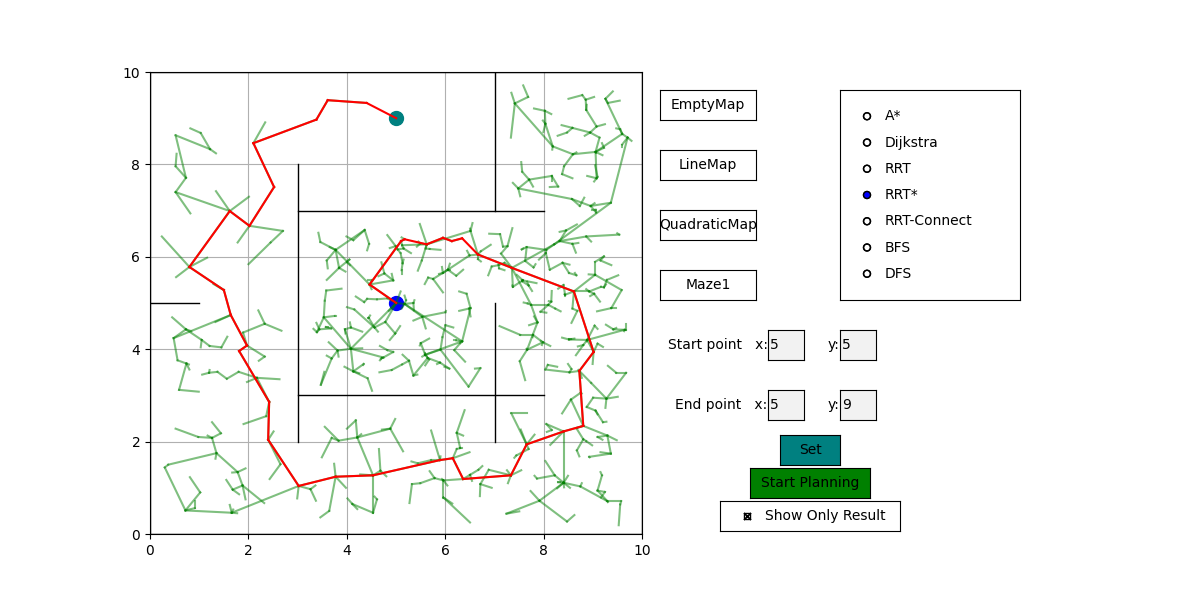
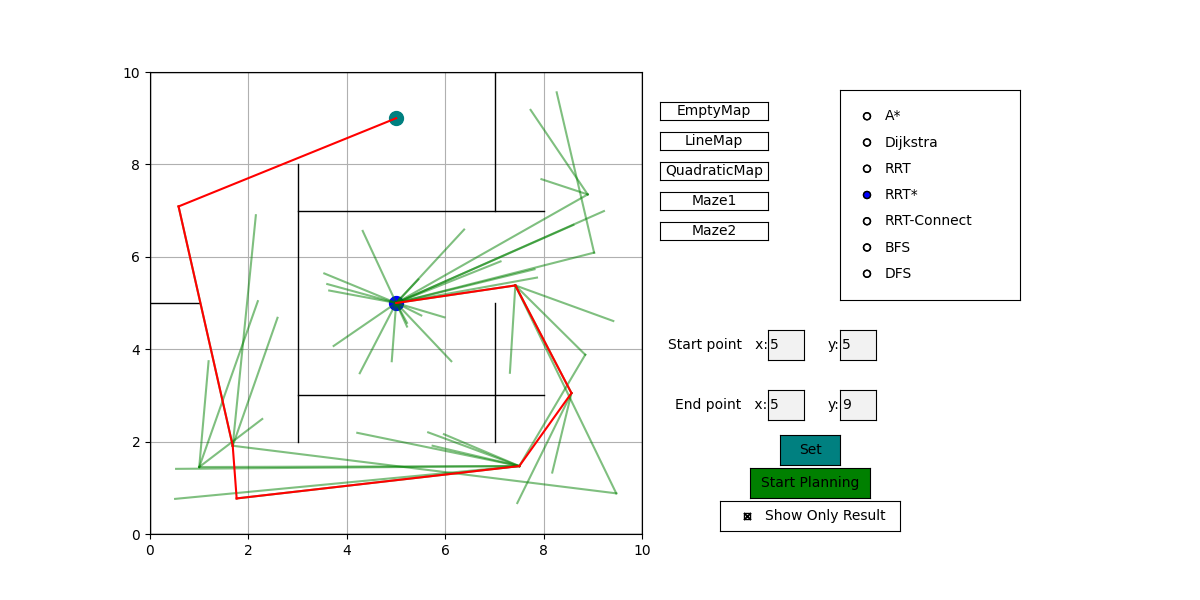
upgrade rrt_start

diff --git a/PathPlanning/RapidlyExploringRandomTree/rrt_star.py b/PathPlanning/RapidlyExploringRandomTree/rrt_star.py
@@ -3,6 +3,12 @@ import random
 import sys
 from math import sqrt
 
+
+
+
+
+
+
 def draw_map(ax, map_obj, start_point, end_point, nodes, path=None):
     ax.clear()
     x_range = map_obj.x_range
@@ -83,7 +89,7 @@ def check_segments_intersect(p1, q1, p2, q2):
     return False
 
 
-def rrt_star(ax, map_obj, start_point, end_point, only_result, max_points=10000, rewire_radius=5.0):
+def rrt_star(ax, map_obj, start_point, end_point, only_result, max_points=10000, rewire_radius=0.5):
     x_range = map_obj.x_range
     y_range = map_obj.y_range
     obstacles = map_obj.obstacles
@@ -106,56 +112,55 @@ def rrt_star(ax, map_obj, start_point, end_point, only_result, max_points=10000,
     while points_added < max_points:
         # 1. Draw a point
         target_point = (round(random.uniform(0, x_range), 2), round(random.uniform(0, y_range), 2))
-
-        if is_far_from_obstacles(target_point, obstacles):
-            # 2. Checking for each available node (parent).
-            nearest_node = None
-            min_cost = float('inf')
-            for node, parent_node, cost in nodes:
-                if not intersects_obstacle(node, target_point, obstacles_lines):
-                    # 2a. Calculating the cost from the beginning of the route to this point by this parent.
-                    new_cost = costs[node] + euclidean_distance(node, target_point)
-                    if new_cost < min_cost:
-                        nearest_node = node
-                        min_cost = new_cost
         
-        if nearest_node is not None:
-                # 2b. Selecting the shortest distance to the starting point and saving the point to that parent.
-                nodes.append((target_point, nearest_node, min_cost))
-                parent_nodes[target_point] = nearest_node
-                costs[target_point] = min_cost
+        if is_far_from_obstacles(target_point, obstacles):
+                    # 2. Checking for each available node (parent).
+                    nearest_node = None
+                    min_cost = float('inf')
+                    for node, parent_node, cost in nodes:
+                        if not intersects_obstacle(node, target_point, obstacles_lines):
+                            # 2a. Calculating the cost from the beginning of the route to this point by this parent.
+                            new_cost = costs[node] + euclidean_distance(node, target_point)
+                            if new_cost < min_cost:
+                                nearest_node = node
+                                min_cost = new_cost
 
-                # 3. Selecting the parent with the lowest cost.
-                for node, parent_node, cost in nodes:
-                    if node != target_point and euclidean_distance(node, target_point) <= rewire_radius:
-                        new_cost = costs[target_point] + euclidean_distance(node, target_point)
-                        if new_cost < costs[node] and not intersects_obstacle(node, target_point, obstacles_lines):
-                            parent_nodes[node] = target_point
-                            costs[node] = new_cost
+                    if nearest_node is None:
+                        continue
+                    # 2b. Selecting the shortest distance to the starting point and saving the point to that parent.
+                    nodes.append((target_point, nearest_node, min_cost))
+                    parent_nodes[target_point] = nearest_node
+                    costs[target_point] = min_cost
 
-                points_added += 1
-                if only_result is False:
-                    draw_map(ax, map_obj,start_point, end_point, nodes) # Draw added nodes
+                    # 3. Selecting the parent with the lowest cost.
+                    for node, parent_node, cost in nodes:
+                        if node != target_point and euclidean_distance(node, target_point) <= rewire_radius:
+                            new_cost = costs[target_point] + euclidean_distance(node, target_point)
+                            if new_cost < costs[node] and not intersects_obstacle(node, target_point, obstacles_lines):
+                                parent_nodes[node] = target_point
+                                costs[node] = new_cost
 
-                # 4: Checking whether a point can be connected to an endpoint
-                if euclidean_distance(target_point, end_point) <= 5.0 and not intersects_obstacle(end_point, target_point, obstacles_lines):
-                    
-                    nodes.append((end_point, target_point, min_cost + euclidean_distance(target_point, end_point)))
-                    parent_nodes[end_point] = target_point
-                    costs[end_point] = min_cost + euclidean_distance(target_point, end_point)
-
-                    # Create final path
-                    path = [end_point]
-                    current_node = target_point
-                    while current_node != start_point:
-                        path.append(current_node)
-                        current_node = parent_nodes[current_node]
-                    path.append(start_point)
-                    path.reverse()
-                    draw_map(map_obj, start_point, end_point, nodes, path)
-                    print("Path found at", points_added, "iteration.")
-                    print("Path:", path)
-                    return path
-
+                    points_added += 1
+                    if only_result is False:
+                        draw_map(ax, map_obj,start_point, end_point, nodes) # Uncomment to visualize every added point to the tree
+                    # 4: Checking whether a point can be connected to an endpoint
+                    if euclidean_distance(target_point, end_point) <= 5.0 and not intersects_obstacle(end_point, target_point, obstacles_lines):
+                        
+                        nodes.append((end_point, target_point, min_cost + euclidean_distance(target_point, end_point)))
+                        parent_nodes[end_point] = target_point
+                        costs[end_point] = min_cost + euclidean_distance(target_point, end_point)
+                        print(f"Path found at {points_added} iteration.")
+                        # Create final path
+                        path = [end_point]
+                        current_node = target_point
+                        while current_node != start_point:
+                            path.append(current_node)
+                            current_node = parent_nodes[current_node]
+                        path.append(start_point)
+                        path.reverse()
+                        draw_map(ax, map_obj,start_point, end_point, nodes, path)
+                        print("Path found at", points_added, "iteration.")
+                        print("Path:", path)
+                        return path
     print("Path not found.")
     return None

diff --git a/PathPlanning/SingleRun/rrt_star.py b/PathPlanning/SingleRun/rrt_star.py
@@ -37,9 +37,6 @@ def draw_map(map_obj, start_point, end_point, nodes, path=None):
         for next_node in path[1:]:
             plt.plot([current_node[0], next_node[0]], [current_node[1], next_node[1]], color='red')
             current_node = next_node
-
-
-        
     plt.xlim(0, x_range)
     plt.ylim(0, y_range)
     plt.grid(True)
@@ -92,8 +89,7 @@ def check_segments_intersect(p1, q1, p2, q2):
     return False
 
 
-
-def rrt_star(map_obj, start_point, end_point, max_points=1000, rewire_radius=15.0):
+def rrt_star(map_obj, start_point, end_point, max_points=1000, rewire_radius=5.0):
     x_range = map_obj.x_range
     y_range = map_obj.y_range
     obstacles = map_obj.obstacles
@@ -129,41 +125,44 @@ def rrt_star(map_obj, start_point, end_point, max_points=1000, rewire_radius=15.
                         nearest_node = node
                         min_cost = new_cost
 
-            if nearest_node is not None:
-                # 2b. Selecting the shortest distance to the starting point and saving the point to that parent.
-                nodes.append((target_point, nearest_node, min_cost))
-                parent_nodes[target_point] = nearest_node
-                costs[target_point] = min_cost
+            if nearest_node is None:
+                continue
+            # 2b. Selecting the shortest distance to the starting point and saving the point to that parent.
+            nodes.append((target_point, nearest_node, min_cost))
+            parent_nodes[target_point] = nearest_node
+            costs[target_point] = min_cost
 
-                # 3. Selecting the parent with the lowest cost.
-                for node, parent_node, cost in nodes:
-                    if node != target_point and euclidean_distance(node, target_point) <= rewire_radius:
-                        new_cost = costs[target_point] + euclidean_distance(node, target_point)
-                        if new_cost < costs[node] and not intersects_obstacle(node, target_point, obstacles_lines):
-                            parent_nodes[node] = target_point
-                            costs[node] = new_cost
+            # 3. Selecting the parent with the lowest cost.
+            for node, parent_node, cost in nodes:
+                if node != target_point and euclidean_distance(node, target_point) <= rewire_radius:
+                    new_cost = costs[target_point] + euclidean_distance(node, target_point)
+                    if new_cost < costs[node] and not intersects_obstacle(node, target_point, obstacles_lines):
+                        parent_nodes[node] = target_point
+                        costs[node] = new_cost
 
-                points_added += 1
-                draw_map(map_obj, start_point, end_point, nodes) # draw added nodes
-                # 4: Checking whether a point can be connected to an endpoint
-                if euclidean_distance(target_point, end_point) <= 5.0 and not intersects_obstacle(end_point, target_point, obstacles_lines):
-                    
-                    nodes.append((end_point, target_point, min_cost + euclidean_distance(target_point, end_point)))
-                    parent_nodes[end_point] = target_point
-                    costs[end_point] = min_cost + euclidean_distance(target_point, end_point)
+            points_added += 1
 
-                    # Create final path
-                    path = [end_point]
-                    current_node = target_point
-                    while current_node != start_point:
-                        path.append(current_node)
-                        current_node = parent_nodes[current_node]
-                    path.append(start_point)
-                    path.reverse()
-                    draw_map(map_obj, start_point, end_point, nodes, path)
-                    print("Path found at", points_added, "iteration.")
-                    print("Path:", path)
-                    return path
+            #draw_map(map_obj, start_point, end_point, nodes) # draw added nodes
+            
+            # 4: Checking whether a point can be connected to an endpoint
+            if euclidean_distance(target_point, end_point) <= 5.0 and not intersects_obstacle(end_point, target_point, obstacles_lines):
+                
+                nodes.append((end_point, target_point, min_cost + euclidean_distance(target_point, end_point)))
+                parent_nodes[end_point] = target_point
+                costs[end_point] = min_cost + euclidean_distance(target_point, end_point)
+
+                # Create final path
+                path = [end_point]
+                current_node = target_point
+                while current_node != start_point:
+                    path.append(current_node)
+                    current_node = parent_nodes[current_node]
+                path.append(start_point)
+                path.reverse()
+                draw_map(map_obj, start_point, end_point, nodes, path)
+                print("Path found at", points_added, "iteration.")
+                print("Path:", path)
+                return path
 
     print("Path not found.")
     return None
@@ -176,8 +175,8 @@ if __name__ == "__main__":
     -EmptyMap()
     -Maze1()
     """    
-    map = Maze2()
-    start_point = (1, 1)
+    map = Maze1()
+    start_point = (5, 5)
     end_point = (5, 9)
     rrt_star(map, start_point, end_point)
     plt.show()

diff --git a/plotter.py b/plotter.py
@@ -116,7 +116,7 @@ def on_start_planning_clicked(event):
     elif algorithm == 'RRT':
         rrt(ax_left, map, start_point, end_point, only_result, max_points=10000)
     elif algorithm == 'RRT*':
-        rrt_star(ax_left, map, start_point, end_point, only_result, max_points=10000, rewire_radius=0.5)
+        rrt_star(ax_left, map, start_point, end_point, only_result, max_points=10000, rewire_radius=3.0)
     elif algorithm == 'RRT-Connect':
         rrt_connect(ax_left, map, start_point, end_point, only_result, max_points=10000)
     elif algorithm == 'BFS':

diff --git a/tempCodeRunnerFile.py b/tempCodeRunnerFile.py
@@ -1,0 +1,1 @@
+ax_left
